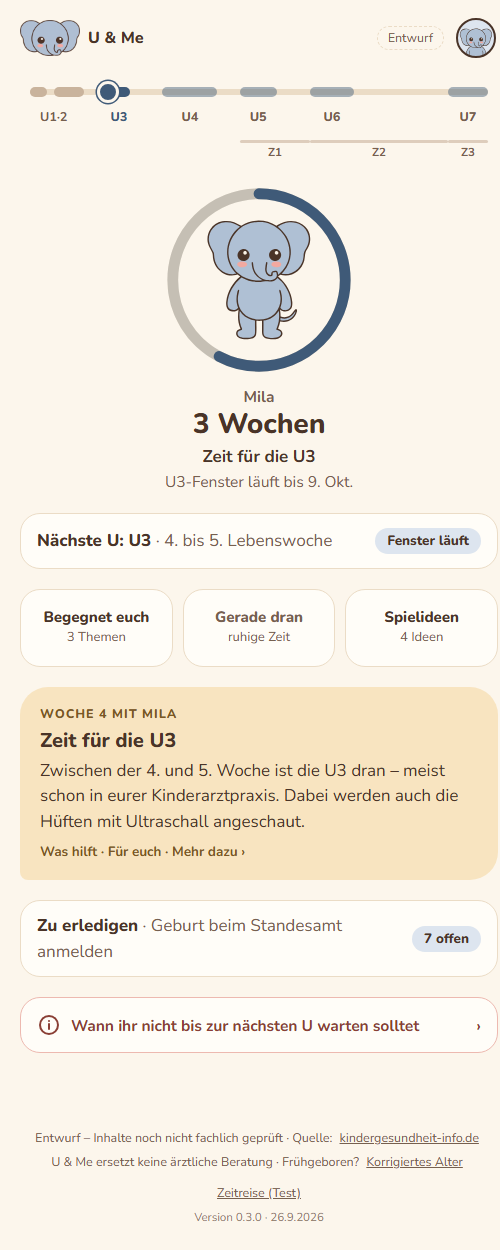
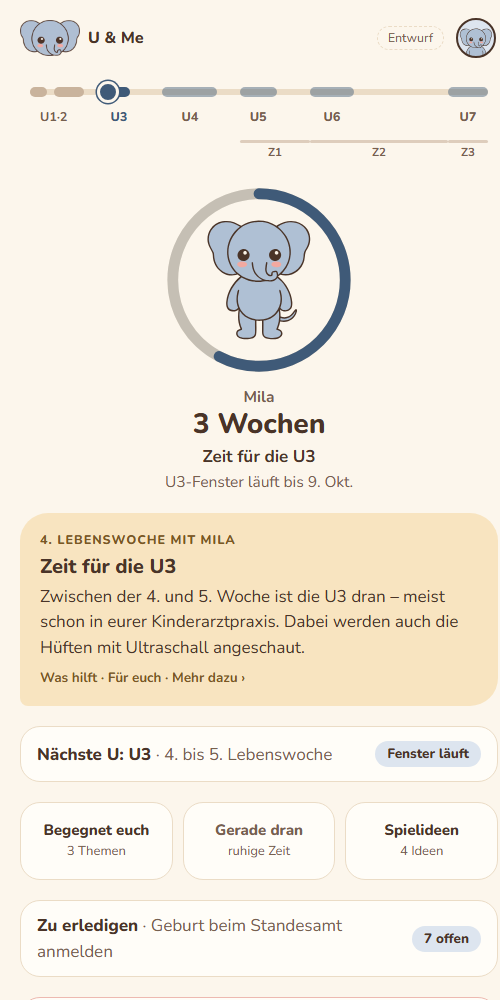
Wochenkarte direkt unter dem Ring, Version 0.5.1

diff --git a/src/components/Heute.tsx b/src/components/Heute.tsx
@@ -43,6 +43,17 @@ export function Heute({ kind, notizen }: { kind: Kind; notizen: Notizen }) {
       <UZeitleiste kind={kind} />
       <Zeitring kind={kind} />
 
+      {/* In den ersten 12 Wochen die wichtigste Orientierung – deshalb gleich unter dem Ring */}
+      {woche && (
+        <Link to="/woche" className="wichtig">
+          <span className="wichtig-label">{woche.woche}. Lebenswoche{kind.name ? ` mit ${kind.name}` : ''}</span>
+          <span className="wichtig-titel">{woche.titel}</span>
+          <span className="wichtig-text">{woche.typisch}</span>
+          <span className="wichtig-meta">Was hilft · Für euch · Mehr dazu ›</span>
+        </Link>
+      )}
+
+
       {naechsteU && (
         <Link to="/naechste-u" className="zeile-link">
           <span>
@@ -94,15 +105,6 @@ export function Heute({ kind, notizen }: { kind: Kind; notizen: Notizen }) {
             Quelle: {danach.quelle.name}
           </a>
         </section>
-      )}
-
-      {woche && (
-        <Link to="/woche" className="wichtig">
-          <span className="wichtig-label">{woche.woche}. Lebenswoche{kind.name ? ` mit ${kind.name}` : ''}</span>
-          <span className="wichtig-titel">{woche.titel}</span>
-          <span className="wichtig-text">{woche.typisch}</span>
-          <span className="wichtig-meta">Was hilft · Für euch · Mehr dazu ›</span>
-        </Link>
       )}
 
       {offen.length > 0 && (
